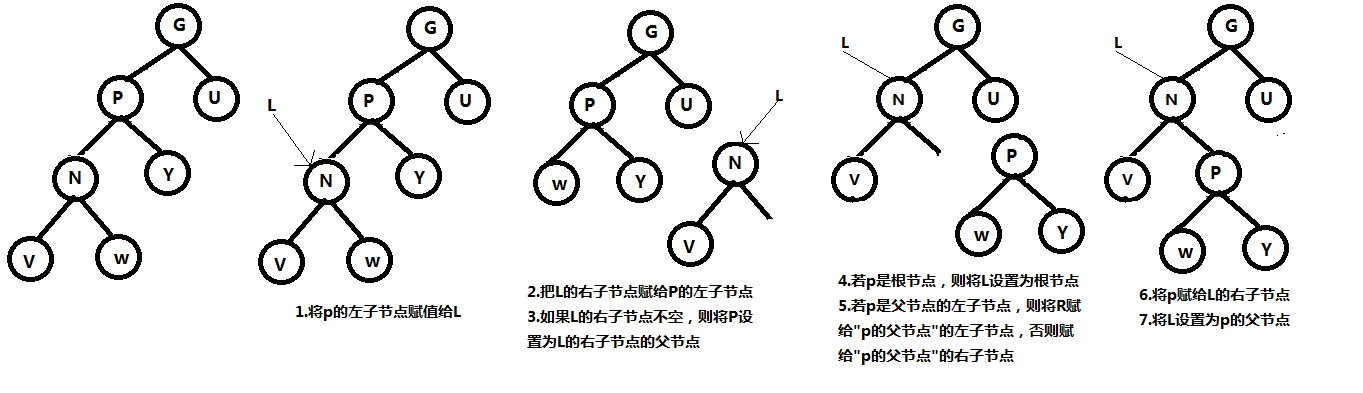
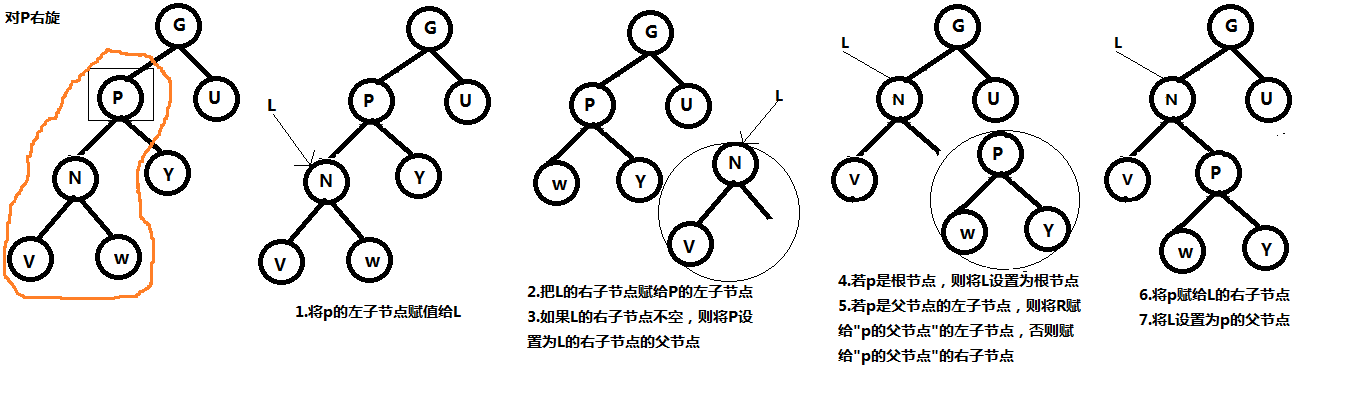
hashmap增加红黑树部分

diff --git a/_posts/blog/Java基础/2019-04-19-HashMap.md b/_posts/blog/Java基础/2019-04-19-HashMap.md
@@ -147,7 +147,7 @@ Serializable：表示HashMap实现了序列化，即可以将HashMap对象保存
 ``` java
 final V putVal(int hash, K key, V value, boolean onlyIfAbsent,
                    boolean evict) {
-        //tab存放 当前的哈希桶， p用作临时链表节点
+        //tab是存放哈希桶的数组， p用作临时链表节点
         Node<K,V>[] tab; Node<K,V> p; int n, i;
         //如果当前哈希表是空的，代表是初始化
         if ((tab = table) == null || (n = tab.length) == 0)
@@ -411,3 +411,277 @@ final V putVal(int hash, K key, V value, boolean onlyIfAbsent,
         return newTab;
     }
 ```
+#### 涉及到红黑树的函数分析
+1. treeifyBin：当哈希桶数组的某个位置上存在多个hash值相同的键值大于等于8个时，需要将链表转换为红黑树
+``` java
+    final void treeifyBin(Node<K,V>[] tab, int hash) {
+        int n, index; Node<K,V> e;//定义n:哈希桶数组长度、index:hash对应的数组下标、e:用于循环的迭代变量,代表当前节点
+        if (tab == null || (n = tab.length) < MIN_TREEIFY_CAPACITY)
+            resize();// 若数组尚未初始化或者数组长度小于64,则直接扩容而不进行树形化
+        else if ((e = tab[index = (n - 1) & hash]) != null) {//获取指定数组下标的头结点e
+            TreeNode<K,V> hd = null, tl = null;//定义head节点hd、尾节点tl
+            do {// 循环,该循环主要是将原单向链表转化为树形结构
+                TreeNode<K,V> p = replacementTreeNode(e, null);//该方法体：return new TreeNode<>(p.hash, p.key, p.value, next);
+                if (tl == null)//若尾节点为null表明首次循环,此时e为头结点,将e转换为了双向链表p
+                    hd = p;//将p赋值给链表的头节点
+                else {
+                    p.prev = tl;//把当前的尾节点赋值给p的前驱节点
+                    tl.next = p;//当前尾节点的next指向p
+                }
+                tl = p;//把p赋值给尾节点
+            } while ((e = e.next) != null);
+            
+             // 到目前为止 也只是把Node对象转换成了TreeNode对象，把单向链表转换成了双向链表
+             
+            // 把转换后的双向链表，替换原来位置上的单向链表
+            if ((tab[index] = hd) != null)
+                hd.treeify(tab);//将链表转换为红黑树结构
+        }
+    }
+```
+2. treeify：通过TreeNode对象调用，实现该对象打头的链表转换为树结构，TreeNode类(HashMap的内部类)的一个实例方法，
+ ``` java
+     final void treeify(Node<K,V>[] tab) {
+         TreeNode<K,V> root = null;// 定义树的根节点
+         //遍历链表。x指向头节点(hd.treeify(tab)调用的此方法，即hd是该链表的头节点)
+         for (TreeNode<K,V> x = this, next; x != null; x = next) {
+             next = (TreeNode<K,V>)x.next;
+             x.left = x.right = null;// 设置当前节点的左右节点为空
+             if (root == null) {// 如果还没有根节点
+                 x.parent = null;// 当前节点的父节点设为空
+                 x.red = false; // 当前节点的红色属性设为false（把当前节点设为黑色）
+                 root = x;// 根节点指向到当前节点
+             }
+             else {// 如果已经存在根节点了
+                 K k = x.key;// 取得当前链表节点的key
+                 int h = x.hash;// 取得当前链表节点的hash值
+                 Class<?> kc = null;// 定义key所属的Class
+                 for (TreeNode<K,V> p = root;;) {// 从根节点开始遍历，此遍历没有设置边界，只能从内部跳出
+                     // GOTO1
+                     int dir, ph; // dir 标识方向（左右）、ph标识当前树节点的hash值
+                     K pk = p.key;// 当前树节点的key
+                     if ((ph = p.hash) > h)// 如果当前树节点hash值 大于 当前链表节点的hash值
+                         dir = -1; // 标识当前链表节点会放到当前树节点的左侧
+                     else if (ph < h)
+                         dir = 1;//右
+                     // 如果两个节点的key的hash值相等，那么还要通过其他方式再进行比较
+                     //如果当前链表节点的key实现了comparable接口，并且当前树节点和链表节点是相同Class的实例，那么通过comparable的方式再比较两者。
+                     else if ((kc == null &&
+                               (kc = comparableClassFor(k)) == null) ||
+                              (dir = compareComparables(kc, k, pk)) == 0)
+                         dir = tieBreakOrder(k, pk);// 如果还是相等，最后再通过tieBreakOrder比较一次
+
+                     TreeNode<K,V> xp = p;// 保存当前树节点
+                     /*
+                      * 如果dir 小于等于0 ： 当前链表节点一定放置在当前树节点的左侧，但不一定是该树节点的左孩子，也可能是左孩子的右孩子 或者 更深层次的节点。
+                      * 如果dir 大于0 ： 当前链表节点一定放置在当前树节点的右侧，但不一定是该树节点的右孩子，也可能是右孩子的左孩子 或者 更深层次的节点。
+                      * 如果当前树节点不是叶子节点，那么最终会以当前树节点的左孩子或者右孩子 为 起始节点  再从GOTO1 处开始 重新寻找自己（当前链表节点）的位置
+                      * 如果当前树节点就是叶子节点，那么根据dir的值，就可以把当前链表节点挂载到当前树节点的左或者右侧了。
+                      * 挂载之后，还需要重新把树进行平衡。平衡之后，就可以针对下一个链表节点进行处理了。
+                      */
+                     if ((p = (dir <= 0) ? p.left : p.right) == null) {
+                         x.parent = xp;// 当前链表节点 作为 当前树节点的子节点
+                         if (dir <= 0)
+                             xp.left = x;//作为左孩子
+                         else
+                             xp.right = x;//作为右孩子
+                         root = balanceInsertion(root, x);//重新平衡
+                         break;
+                     }
+                 }
+             }
+         }
+         //把所有的链表节点都遍历完之后，最终构造出来的树可能经历多个平衡操作，红黑树的根节点目前到底是链表的哪一个节点是不确定的
+         // 因为我们要基于树来做查找，所以就应该把 tab[N] 得到的对象一定根节点对象，而目前只是链表的第一个节点对象，所以要做相应的处理。
+         moveRootToFront(tab, root);
+     }
+ ```
+ 
+ 3. moveRootToFront：TreeNode类(HashMap的内部类)的一个实例方法。
+ ``` java
+    /**
+      * TreeNode在增加或删除节点后，都需要对整个树重新进行平衡，平衡之后的根节点也许就会发生变化，此时为了保证：
+      * 如果HashMap元素数组根据下标取得的元素是一个TreeNode类型，那么这个TreeNode节点一定要是这颗树的根节点，同时也要是整个链表的首节点。
+      */
+     /**
+      * 把红黑树的根节点设为  其所在的数组槽 的第一个元素
+      * 首先明确：TreeNode既是一个红黑树结构，也是一个双链表结构，因此可以使用.left和.right，当然也可以使用.prev和.next
+      * 这个方法里做的事情，就是保证树的根节点一定也要成为链表的首节点
+      */
+     static <K,V> void moveRootToFront(Node<K,V>[] tab, TreeNode<K,V> root) {
+         int n;
+         if (root != null && tab != null && (n = tab.length) > 0) { // 根节点不为空 并且 HashMap的元素数组不为空
+             int index = (n - 1) & root.hash;// 根据根节点的Hash值 和 HashMap的元素数组长度  取得根节点在数组中的位置
+             TreeNode<K,V> first = (TreeNode<K,V>)tab[index]; // 首先取得该位置上的第一个节点对象
+             if (root != first) {// 如果该节点对象 与 根节点对象 不同
+                 Node<K,V> rn; // 定义根节点的后一个节点
+                 tab[index] = root;// 把元素数组index位置的元素替换为当前根节点对象
+                 TreeNode<K,V> rp = root.prev;// 获取根节点对象的前一个节点
+                 if ((rn = root.next) != null)// 如果后节点不为空
+                     ((TreeNode<K,V>)rn).prev = rp;// root后节点的前节点  指向到 root的前节点，相当于把root从链表中摘除
+                 if (rp != null)// 如果root的前节点不为空
+                     rp.next = rn;// root前节点的后节点 指向到 root的后节点
+                 if (first != null)// 如果数组该位置上原来的元素不为空
+                     first.prev = root;// 这个原有的元素的 前节点 指向到 root，相当于root目前位于链表的首位
+                 root.next = first;
+                 root.prev = null;
+             }
+             /*
+              * 这一步是防御性的编程
+              * 校验TreeNode对象是否满足红黑树和双链表的特性
+              * 如果这个方法校验不通过：可能是因为用户编程失误，破坏了结构（例如：并发场景下）；也可能是TreeNode的实现有问题（这个是理论上的以防万一）；
+              */
+             assert checkInvariants(root);
+         }
+     }
+ ```
+4. rotateLeft：左旋，TreeNode类(HashMap的内部类)的一个实例方法。
+``` java
+    /**
+     * 步骤：
+     * 约定：要左旋的节点p及它的右孩子r，“=”代表赋值操作
+     * 1.p和r都不为空
+     * 2.r=r的左孩子(r1)，同时r1非空，则r1的父节点=p
+     * 3.“r父节点”=“p父节点”：如果父节点为空，则r为根节点；
+     *                                       否则，p==父节点的左孩子，则父节点的左孩子=r；
+     *                                       否则，父节点的右孩子=r；
+     * 4.r的左孩子=p；p的父节点=r；
+     * 
+     * 
+     * 省略（每个都对应着相互操作）：
+     * 1.r=r的左孩子(r1)；
+     * 2.“r父节点”=“p父节点”；
+     * 3.r的左孩子=p
+     */
+    static <K,V> TreeNode<K,V> rotateLeft(TreeNode<K,V> root,
+                                          TreeNode<K,V> p) {
+        TreeNode<K,V> r, pp, rl;
+        if (p != null && (r = p.right) != null) {// 要左旋的节点以及要左旋的节点的右孩子不为空
+            if ((rl = p.right = r.left) != null)// 要左旋的节点的右孩子的左节点 赋给 要左旋的节点的右孩子 节点为：rl
+                rl.parent = p;//设置rl和要左旋的节点的父子关系【之前只是爹认了孩子，孩子还没有答应，这一步孩子也认了爹】
+
+
+            if ((pp = r.parent = p.parent) == null)// 要左旋的节点的父节点 赋给 要左旋的节点的右孩子的父节点 ，相当于右孩子提升了一层，
+                (root = r).red = false; // 此时如果父节点为空， 说明r 已经是顶层节点了，应该作为root 并且标为黑色
+            else if (pp.left == p) // 如果父节点不为空 并且 要左旋的节点是个左孩
+                pp.left = r;
+            else// 要左旋的节点是个右孩子
+                pp.right = r;
+            r.left = p;
+            p.parent = r;
+        }
+        return root;
+    } 
+```
+![](/images/posts/Java基础/集合/左旋.png) 
+
+5. rotateRight：右旋，TreeNode类(HashMap的内部类)的一个实例方法。
+``` java
+    /**
+     * 步骤：
+     * 约定：要右旋的节点p及它的左孩子l，“=”代表赋值操作
+     * 1.p和l都不为空
+     * 2.l=l的右孩子(l1)，同时l1非空，则l1的父节点=p
+     * 3.“l父节点”=“p父节点”：如果父节点为空，则l为根节点；
+     *                                       否则，p==父节点的左孩子，则父节点的左孩子=l；
+     *                                       否则，父节点的右孩子=l；
+     * 4.l的右孩子=p；p的父节点=l；
+     *
+     *
+     * 省略（每个都对应着相互操作）：
+     * 1.l=l的右孩子(r1)；
+     * 2.“l父节点”=“p父节点”；
+     * 3.l的右孩子=p
+     */
+    static <K,V> TreeNode<K,V> rotateRight(TreeNode<K,V> root,
+                                           TreeNode<K,V> p) {
+        TreeNode<K,V> l, pp, lr;
+        if (p != null && (l = p.left) != null) { // 要右旋的节点不为空以及要右旋的节点的左孩子不为空
+            if ((lr = p.left = l.right) != null)// 要右旋的节点的左孩子的右节点 赋给 要右旋节点的左孩子 节点为：lr
+                lr.parent = p; // 设置lr和要右旋的节点的父子关系【之前只是爹认了孩子，孩子还没有答应，这一步孩子也认了爹
+            if ((pp = l.parent = p.parent) == null) // 要右旋的节点的父节点 赋给 将要右旋的节点的左孩子的父节点 ，相当于左孩子提升了一层，
+                (root = l).red = false;// 此时如果父节点为空， 说明l 已经是顶层节点了，应该作为root 并且标为黑色
+            else if (pp.right == p) // 如果父节点不为空 并且 要右旋的节点是个右孩子
+                pp.right = l;// 设置l和父节点的父子关系【之前只是孩子认了爹，爹还没有答应，这一步爹也认了孩子】
+            else// 要右旋的节点是个左孩子
+                pp.left = l;
+            l.right = p;// 要右旋的节点 作为 他左孩子的右节点
+            p.parent = l;// 要右旋的节点的父节点 指向 他的左孩子
+        }
+        return root;
+    }
+```
+![](/images/posts/Java基础/集合/右旋.png) 
+
+6. balanceInsertion：插入节点后，进行红黑树的平衡操作，TreeNode类(HashMap的内部类)的一个实例方法。
+
+``` java
+    /**
+     * 红黑树插入节点后，需要重新平衡，返回重新平衡后的根节点。
+     * root：当前根节点
+     * x：新插入的节点
+     */
+    static <K,V> TreeNode<K,V> balanceInsertion(TreeNode<K,V> root,
+                                                TreeNode<K,V> x) {
+        x.red = true;// 新插入的节点标为红色
+        /*
+         * 这一步即定义了变量，又开起了循环，循环没有控制条件，只能从内部跳出
+         * xp：当前节点的父节点、xpp：爷爷节点、xppl：左叔叔节点、xppr：右叔叔节点
+         */
+        for (TreeNode<K,V> xp, xpp, xppl, xppr;;) {
+            // 如果父节点为空、说明当前节点就是根节点，那么把当前节点标为黑色，返回当前节点
+            if ((xp = x.parent) == null) {// L1
+                x.red = false;
+                return x;
+            }
+            // 父节点不为空，
+            // 如果父节点为黑色 或者 【爷爷节点为空即父节点是根节点】
+            else if (!xp.red || (xpp = xp.parent) == null) // L2
+                return root;
+            //父节点为红色
+            if (xp == (xppl = xpp.left)) {// 如果父节点是爷爷节点的左孩子  // L3
+                if ((xppr = xpp.right) != null && xppr.red) { // 如果右叔叔不为空 并且 为红色 // L3_1
+                    xppr.red = false;//右叔叔节点设置为黑色
+                    xp.red = false;//父节点设置为黑色
+                    xpp.red = true;//爷爷节点设置为红色
+                    x = xpp;//运行到这里之后，就又会进行下一轮的循环了，将爷爷节点当做处理的起始节点
+                }
+                else {// 如果右叔叔为空 或者 为黑色 // L3_2
+                    if (x == xp.right) {// 如果当前节点是父节点的右孩子   // L3_2_1
+                        root = rotateLeft(root, x = xp);// 父节点左旋，注意这里当前节点与父节点互换了，可以自己想象下左旋的效果
+                        xpp = (xp = x.parent) == null ? null : xp.parent;
+                    }
+                    if (xp != null) { // 如果父节点不为空      // L3_2_2
+                        xp.red = false;// 父节点 置为黑色
+                        if (xpp != null) {
+                            xpp.red = true; // 爷爷节点置为 红色
+                            root = rotateRight(root, xpp); //爷爷节点右旋
+                        }
+                    }
+                }
+            }
+            else {
+                if (xppl != null && xppl.red) {
+                    xppl.red = false;
+                    xp.red = false;
+                    xpp.red = true;
+                    x = xpp;
+                }
+                else {
+                    if (x == xp.left) {
+                        root = rotateRight(root, x = xp);
+                        xpp = (xp = x.parent) == null ? null : xp.parent;
+                    }
+                    if (xp != null) {
+                        xp.red = false;
+                        if (xpp != null) {
+                            xpp.red = true;
+                            root = rotateLeft(root, xpp);
+                        }
+                    }
+                }
+            }
+        }
+    }
+```
+
